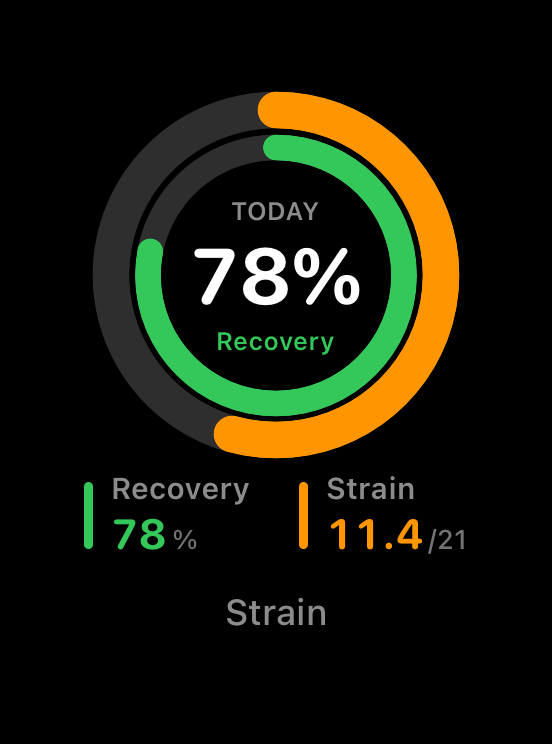
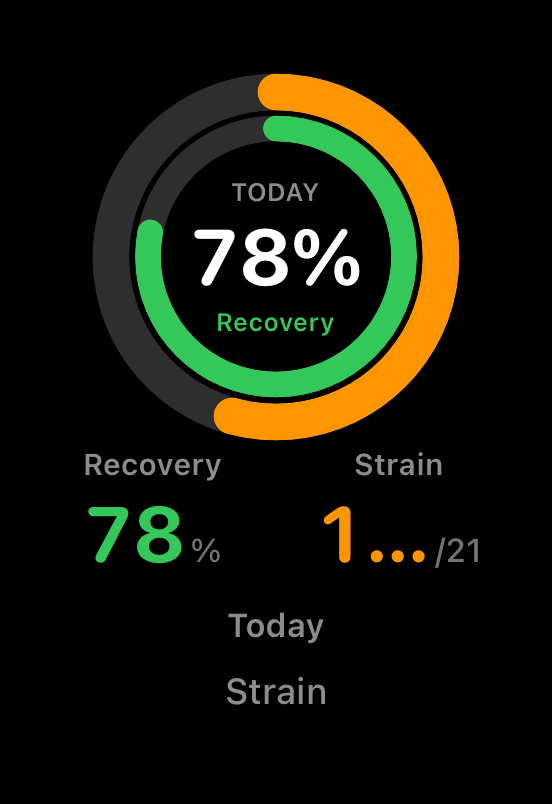
feat(watch): elevate Watch strain Recovery|Strain secondary (Honest #50) (#68)
Replace thin Recovery/Strain legend rows with Recovery % | Strain /21 dual
callout + day cue from WatchSnapshot under the WHOOP dual arcs; refresh
verify-watch-strain.png chrome.

Changed region(s): [[0.154, 0.0927, 0.8623, 0.7419], [0.154, 0.6183, 0.462, 0.7419], [0.4004, 0.7419, 0.5851, 0.8965]]

diff --git a/ReadinessTrackerWatch Watch App/WatchStrainView.swift b/ReadinessTrackerWatch Watch App/WatchStrainView.swift
@@ -1,6 +1,6 @@
 import SwiftUI
 
-/// Page 2: WHOOP dual-arc Recovery (inner) / Strain (outer) plus activity summary.
+/// Page 2: WHOOP dual-arc Recovery (inner) / Strain (outer) plus elevated Recovery|Strain callout.
 struct WatchStrainView: View {
     @EnvironmentObject private var session: WatchSessionManager
 
@@ -12,7 +12,7 @@ struct WatchStrainView: View {
                         strainScore: snapshot.strain,
                         recoveryScore: Double(snapshot.recovery),
                         size: 110,
-                        day: "TODAY",
+                        day: dayCue(for: snapshot.date),
                         minimumOuterWidth: 8,
                         minimumInnerWidth: 6,
                         trackColor: Color.white.opacity(0.18),
@@ -21,20 +21,26 @@ struct WatchStrainView: View {
                     )
                     .padding(.top, 4)
 
-                    HStack(spacing: 14) {
-                        watchLegend(
-                            color: WatchTheme.lightGreen,
-                            title: "Recovery",
+                    // Elevated secondary glance: Recovery % | Strain /21 from WatchSnapshot only.
+                    HStack(spacing: 12) {
+                        dualCallout(
+                            label: "Recovery",
                             value: "\(snapshot.recovery)",
-                            unit: "%"
+                            unit: "%",
+                            color: WatchTheme.lightGreen
                         )
-                        watchLegend(
-                            color: WatchTheme.orange,
-                            title: "Strain",
+                        dualCallout(
+                            label: "Strain",
                             value: String(format: "%.1f", snapshot.strain),
-                            unit: "/21"
+                            unit: "/21",
+                            color: WatchTheme.orange
                         )
                     }
+
+                    // Day cue from snapshot.date (existing field only).
+                    Text(dayLabel(for: snapshot.date))
+                        .font(.caption2.weight(.semibold))
+                        .foregroundStyle(.secondary)
 
                     Text("Strain")
                         .font(.caption)
@@ -71,26 +77,42 @@ struct WatchStrainView: View {
         }
     }
 
-    private func watchLegend(color: Color, title: String, value: String, unit: String) -> some View {
-        HStack(spacing: 6) {
-            Capsule()
-                .fill(color)
-                .frame(width: 3, height: 22)
-            VStack(alignment: .leading, spacing: 1) {
-                Text(title)
-                    .font(.caption2.weight(.semibold))
-                    .foregroundStyle(.secondary)
-                HStack(alignment: .firstTextBaseline, spacing: 1) {
-                    Text(value)
-                        .font(.caption.weight(.bold))
-                        .foregroundStyle(color)
-                        .monospacedDigit()
-                    Text(unit)
-                        .font(.system(size: 9, weight: .medium))
-                        .foregroundStyle(.tertiary)
-                }
+    private func dualCallout(label: String, value: String, unit: String, color: Color) -> some View {
+        VStack(spacing: 2) {
+            Text(label)
+                .font(.caption2.weight(.semibold))
+                .foregroundStyle(.secondary)
+            HStack(alignment: .firstTextBaseline, spacing: 1) {
+                Text(value)
+                    .font(.system(size: 26, weight: .bold, design: .rounded))
+                    .foregroundStyle(color)
+                    .monospacedDigit()
+                Text(unit)
+                    .font(.caption.weight(.medium))
+                    .foregroundStyle(.tertiary)
             }
         }
+        .frame(maxWidth: .infinity)
+    }
+
+    private func dayCue(for date: Date) -> String {
+        if Calendar.current.isDateInToday(date) {
+            return "TODAY"
+        }
+        let f = DateFormatter()
+        f.locale = Locale(identifier: "en_US_POSIX")
+        f.dateFormat = "EEE"
+        return f.string(from: date).uppercased()
+    }
+
+    private func dayLabel(for date: Date) -> String {
+        if Calendar.current.isDateInToday(date) {
+            return "Today"
+        }
+        let f = DateFormatter()
+        f.locale = Locale(identifier: "en_US_POSIX")
+        f.dateFormat = "EEEE"
+        return f.string(from: date)
     }
 }
 

diff --git a/ReadinessTracker/Design/CompactStrainRecoveryWheel.swift b/ReadinessTracker/Design/CompactStrainRecoveryWheel.swift
@@ -91,17 +91,18 @@ struct CompactStrainRecoveryWheel: View {
 struct WatchStrainChrome: View {
     let strainScore: Double
     let recoveryScore: Double
+    var dayCue: String = "TODAY"
 
     private let recoveryColor = Color(red: 52/255, green: 199/255, blue: 89/255)
     private let strainColor = Color(red: 255/255, green: 149/255, blue: 0/255)
 
     var body: some View {
-        VStack(spacing: 10) {
+        VStack(spacing: 8) {
             CompactStrainRecoveryWheel(
                 strainScore: strainScore,
                 recoveryScore: recoveryScore,
                 size: 110,
-                day: "TODAY",
+                day: dayCue,
                 minimumOuterWidth: 8,
                 minimumInnerWidth: 6,
                 trackColor: Color.white.opacity(0.18),
@@ -109,40 +110,51 @@ struct WatchStrainChrome: View {
                 captionColor: Color.white.opacity(0.55)
             )
 
-            HStack(spacing: 16) {
-                chromeMetric(color: recoveryColor, title: "Recovery", value: "\(Int(recoveryScore.rounded()))", unit: "%")
-                chromeMetric(color: strainColor, title: "Strain", value: String(format: "%.1f", strainScore), unit: "/21")
+            // Elevated Recovery % | Strain /21 dual callout (parity with WatchStrainView).
+            HStack(spacing: 12) {
+                dualCallout(
+                    label: "Recovery",
+                    value: "\(Int(recoveryScore.rounded()))",
+                    unit: "%",
+                    color: recoveryColor
+                )
+                dualCallout(
+                    label: "Strain",
+                    value: String(format: "%.1f", strainScore),
+                    unit: "/21",
+                    color: strainColor
+                )
             }
+
+            Text(dayCue == "TODAY" ? "Today" : dayCue.capitalized)
+                .font(.system(size: 11, weight: .semibold))
+                .foregroundStyle(Color.white.opacity(0.55))
 
             Text("Strain")
                 .font(.system(size: 12, weight: .medium))
                 .foregroundStyle(Color.white.opacity(0.55))
         }
         .padding(16)
-        .frame(width: 184, height: 248)
+        .frame(width: 184, height: 268)
         .background(Color.black)
     }
 
-    private func chromeMetric(color: Color, title: String, value: String, unit: String) -> some View {
-        HStack(spacing: 6) {
-            Capsule()
-                .fill(color)
-                .frame(width: 3, height: 22)
-            VStack(alignment: .leading, spacing: 1) {
-                Text(title)
-                    .font(.system(size: 10, weight: .semibold))
-                    .foregroundStyle(Color.white.opacity(0.55))
-                HStack(alignment: .firstTextBaseline, spacing: 1) {
-                    Text(value)
-                        .font(.system(size: 14, weight: .bold, design: .rounded))
-                        .foregroundStyle(color)
-                        .monospacedDigit()
-                    Text(unit)
-                        .font(.system(size: 9, weight: .medium))
-                        .foregroundStyle(Color.white.opacity(0.45))
-                }
+    private func dualCallout(label: String, value: String, unit: String, color: Color) -> some View {
+        VStack(spacing: 2) {
+            Text(label)
+                .font(.system(size: 10, weight: .semibold))
+                .foregroundStyle(Color.white.opacity(0.55))
+            HStack(alignment: .firstTextBaseline, spacing: 1) {
+                Text(value)
+                    .font(.system(size: 26, weight: .bold, design: .rounded))
+                    .foregroundStyle(color)
+                    .monospacedDigit()
+                Text(unit)
+                    .font(.system(size: 11, weight: .medium))
+                    .foregroundStyle(Color.white.opacity(0.45))
             }
         }
+        .frame(maxWidth: .infinity)
     }
 }
 #endif

diff --git a/README.md b/README.md
@@ -2,7 +2,7 @@
 
 iOS readiness app. Bright Apple Health UI. Local HealthKit plus optional Fitbit. WHOOP product surfaces via Apple Health. No unofficial WHOOP OAuth.
 
-**main:** Gym / Work / Sleep rings use Apple Activity packing with a center READY score in a Fitness-scale hole; legend opens Fitness-style ring detail. Today Strain/Recovery Balance shows Recovery | Strain with deltas and a 7-day recovery spark. Watch strain page mirrors WHOOP dual Recovery|Strain arcs. Sleep Performance shows Need | Got dual metrics. Recommendations use WHOOP-style actionable cards. Today scroll keeps Morning and Evening above the tab bar. Body sits above the WHOOP stack with Fitness-style progress tiles and tap-through detail. History Browse Trends opens Health-style trend detail with summary stats and scrub. Day Detail / Sleep Analysis show WHOOP night-detail chrome (stage % chips, hypnogram, cycles summary).
+**main:** Gym / Work / Sleep rings use Apple Activity packing with a center READY score in a Fitness-scale hole; legend opens Fitness-style ring detail. Today Strain/Recovery Balance shows Recovery | Strain with deltas and a 7-day recovery spark. Watch strain page mirrors WHOOP dual Recovery|Strain arcs with Recovery %|Strain /21 callout. Sleep Performance shows Need | Got dual metrics. Recommendations use WHOOP-style actionable cards. Today scroll keeps Morning and Evening above the tab bar. Body sits above the WHOOP stack with Fitness-style progress tiles and tap-through detail. History Browse Trends opens Health-style trend detail with summary stats and scrub. Day Detail / Sleep Analysis show WHOOP night-detail chrome (stage % chips, hypnogram, cycles summary).
 
 Screenshots are Simulator captures from `./scripts/capture-surfaces.sh` (XCUITest swipe plus `-ui-fixture`, not VoiceOver).
 
@@ -39,7 +39,7 @@ Screenshots are Simulator captures from `./scripts/capture-surfaces.sh` (XCUITes
 | Classic `MetricDetailView` primary Trend scrub | Shipped. Today → Metrics cards open classic detail; `ChartScrubSelection` drag scrub + RuleMark/`ChartTooltip` on primary Trend chart (parity with Advanced) | [verify-metric-detail-classic-scrub.png](.audit/verify-metric-detail-classic-scrub.png) |
 | Home Screen widget (Gym / Work / Sleep) | Shipped. Small + medium + **large** + **extra large** use Fitness-style `CompactTripleRingsView`; large adds Gym/Work/Sleep rows + HRV/RHR/Sleep hours; extra large (iPad / StandBy) extends large with readiness cue + G/W/S metric tiles; medium/large/extra-large show interactive **Check-in** / **Evening** / **Trends** (`Link` → `readinesstracker://checkin/{morning|evening}` + `readinesstracker://trends`) and Fitness-style live **Updated …** (`Text(..., style: .relative)`) from App Group `lastUpdate` (getSnapshot shares App Group load with timeline) | [verify-home-widget.png](.audit/verify-home-widget.png) · [verify-home-widget-large.png](.audit/verify-home-widget-large.png) · [verify-home-widget-extra-large.png](.audit/verify-home-widget-extra-large.png) · [verify-home-widget-updated.png](.audit/verify-home-widget-updated.png) · [verify-home-widget-live-updated.png](.audit/verify-home-widget-live-updated.png) · [verify-home-widget-checkin.png](.audit/verify-home-widget-checkin.png) · [verify-home-widget-deeplinks.png](.audit/verify-home-widget-deeplinks.png) |
 | Watch dashboard hero (Gym / Work / Sleep + HRV\|RHR) | Shipped. Concentric Activity rings + elevated HRV\|RHR dual callout and Ready/Recovery cue on Watch glance; `WatchSnapshot` carries gym/work/sleep + vitals from WatchConnectivity | [verify-watch-dashboard.png](.audit/verify-watch-dashboard.png) |
-| Watch strain page (Recovery | Strain dual arcs) | Shipped. WHOOP dual concentric arcs (Recovery inner / Strain outer) on Watch strain page via shared `StrainRecoveryDualArcGeometry` + `CompactStrainRecoveryWheel`; uses recovery + strain from `WatchSnapshot` | [verify-watch-strain.png](.audit/verify-watch-strain.png) |
+| Watch strain page (Recovery | Strain dual arcs + callout) | Shipped. WHOOP dual concentric arcs (Recovery inner / Strain outer) plus elevated Recovery % \| Strain /21 dual callout and day cue from `WatchSnapshot` via shared `StrainRecoveryDualArcGeometry` + `CompactStrainRecoveryWheel` | [verify-watch-strain.png](.audit/verify-watch-strain.png) |
 | Watch complication (Gym / Work / Sleep rings) | Shipped. WidgetKit accessory circular + **rectangular** + **inline** + **corner** Fitness-style glances in `ReadinessTrackerWatchWidgets` embedded in Watch App; rectangular mirrors Lock Screen (#33) with compact rings + readiness + short G/W/S cues; **inline** elevates colored readiness + short G/W/S (R/G/W/S) text cues within `accessoryInline` width (Lock #34 / rect #44 parity); **corner** keeps compact rings (#44) and elevates `widgetLabel` to colored readiness + short G/W/S cues (inline #45 / `WatchAccessoryCue` parity); timeline from App Group `lastWatchSnapshot` written by iOS `WatchConnectivityManager` / `WidgetDataExporter` + Watch `WatchSessionManager` mirror; iOS prefers WC `transferCurrentComplicationUserInfo` when budget remains **and** glance fields changed (else context/message; App Group always); Watch persist soft-fail reloads `ReadinessWatchComplication` timelines (**portal App Group enable remains manual** in `DEVICE_SETUP.md`) | [verify-watch-complication.png](.audit/verify-watch-complication.png) · [verify-watch-complication-rectangular.png](.audit/verify-watch-complication-rectangular.png) · [verify-watch-complication-inline.png](.audit/verify-watch-complication-inline.png) · [verify-watch-complication-corner.png](.audit/verify-watch-complication-corner.png) |
 | Watch Check-in (Morning / Evening) | Shipped. Wrist sheet elevates to Morning|Evening picker + feel stars + habit toggles; `WatchSessionManager.sendCheckIn` sends correct `timeOfDay` (Evening can include Workout); parity intent with iPhone Check-in tab | [verify-watch-checkin.png](.audit/verify-watch-checkin.png) |
 | Watch sleep page (Hours | Efficiency + stage legend) | Shipped. Wrist sleep glance elevates Hours|Eff dual callout (snapshot `sleepHours` + `sleepEfficiency`; no invented Need) + clearer Deep/REM/Light stage legend; optional Sleep score when present | [verify-watch-sleep.png](.audit/verify-watch-sleep.png) |
@@ -61,7 +61,7 @@ Four tabs stay Today, History, Check-in, and Settings.
 
 **Settings.** Apple Health Connect / Reconnect. Fitbit Connect / Refresh / Disconnect. Cycle tracking off by default. CSV export. Coaching and notification screens.
 
-**Elsewhere.** History with weekly report. Home screen widgets (small / medium / large) with Fitness-style Check-in / Evening / Trends deep links on medium/large, Lock Screen circular + rectangular (Fitness-style Gym/Work/Sleep triple rings), Watch dashboard (Fitness-style Gym/Work/Sleep triple rings), and Watch strain (WHOOP Recovery|Strain dual arcs), Watch Check-in (Morning|Evening picker + stars/habits via WatchConnectivity), plus Watch complications (Fitness-style Gym/Work/Sleep circular + rectangular rings via Watch Widgets extension).
+**Elsewhere.** History with weekly report. Home screen widgets (small / medium / large) with Fitness-style Check-in / Evening / Trends deep links on medium/large, Lock Screen circular + rectangular (Fitness-style Gym/Work/Sleep triple rings), Watch dashboard (Fitness-style Gym/Work/Sleep triple rings), and Watch strain (WHOOP Recovery|Strain dual arcs + Recovery %|Strain /21 callout), Watch Check-in (Morning|Evening picker + stars/habits via WatchConnectivity), plus Watch complications (Fitness-style Gym/Work/Sleep circular + rectangular rings via Watch Widgets extension).
 
 **Not in this app.** Unofficial WHOOP login. Google Fit REST. Heart Points.
 
@@ -234,7 +234,7 @@ Fitness-style Gym / Work / Sleep concentric rings on the Watch glance hero (pari
 
 ### Watch strain
 
-WHOOP dual concentric arcs on the Watch strain page (Recovery inner / Strain outer), matching Today `StrainRecoveryWheel` colors and labels. Shared `StrainRecoveryDualArcGeometry` + `CompactStrainRecoveryWheel` (Watch App target membership); recovery % and strain 0–21 come from `WatchSnapshot`.
+WHOOP dual concentric arcs on the Watch strain page (Recovery inner / Strain outer), matching Today `StrainRecoveryWheel` colors and labels, plus an elevated Recovery % | Strain /21 dual callout and day cue under the wheel (from existing `WatchSnapshot` fields only — no invented metrics). Shared `StrainRecoveryDualArcGeometry` + `CompactStrainRecoveryWheel` (Watch App target membership).
 
 ![Watch strain](.audit/verify-watch-strain.png)
 
@@ -386,3 +386,4 @@ Do not commit `build/`, `build-DD/`, `Readiness.app`, or `Secrets.xcconfig`. The
 47. ~~Watch `WatchCheckInView` was a thin morning-only stars+toggles sheet (no evening, no dedicated PNG, weaker than iPhone Check-in).~~ Closed — Morning|Evening picker (watchOS equivalent; no `.segmented`); keep feel stars + habit toggles (Evening adds Workout); `WatchSessionManager.sendCheckIn` sends correct `timeOfDay`; [verify-watch-checkin.png](.audit/verify-watch-checkin.png) from `Scripts/capture-watch-checkin.sh` (ImageRenderer of `WatchCheckInChrome`).
 48. ~~Watch `WatchSleepView` had hours + stage bar + metric rows but no dedicated Status/App-surfaces PNG (dashboard/strain/check-in do).~~ Closed — elevated Hours|Eff dual callout + clearer Deep/REM/Light stage legend from existing `WatchSnapshot` fields only (no invented Need); [verify-watch-sleep.png](.audit/verify-watch-sleep.png) from `Scripts/capture-watch-sleep.sh` (ImageRenderer of `WatchSleepChrome`).
 49. ~~Watch `WatchDashboardView` rings were elevated but vitals stayed plain HRV/RHR/Recovery metric rows (sleep page already uses Hours|Eff dual callout).~~ Closed — elevated HRV|RHR dual callout + Ready/Recovery cue from existing `WatchSnapshot` fields only; [verify-watch-dashboard.png](.audit/verify-watch-dashboard.png) refreshed via `Scripts/capture-watch-dashboard.sh` (ImageRenderer of `WatchDashboardChrome`).
+50. ~~Watch `WatchStrainView` already had WHOOP dual Recovery|Strain arcs (#30) but secondary rows stayed thin vs sleep/dashboard dual callouts.~~ Closed — elevated Recovery % | Strain /21 dual callout under the wheel + day cue from `WatchSnapshot.date` (no invented metrics; dual arcs kept); [verify-watch-strain.png](.audit/verify-watch-strain.png) refreshed via `Scripts/capture-watch-strain.sh` (ImageRenderer of elevated `WatchStrainChrome`).

diff --git a/progress.md b/progress.md
@@ -1,3 +1,12 @@
+## 2026-09-16 — Poteto: Honest #50 Watch strain Recovery|Strain secondary
+
+- Elevated Watch `WatchStrainView` secondary glance from thin Recovery/Strain legend rows to Recovery % | Strain /21 dual callout + day cue (`WatchSnapshot.recovery` / `strain` / `date`); dual arcs (#30) unchanged. No invented metrics.
+- PNG: `.audit/verify-watch-strain.png` refreshed via `Scripts/capture-watch-strain.sh` (`WatchStrainCaptureTests` + `ImageRenderer` of elevated `WatchStrainChrome`).
+- README Status + App surfaces + Honest gap #50; tree-guard / capture-surfaces already list the PNG.
+- Branch: `feature/poteto-watch-strain-secondary`.
+
+
+
 ## 2026-09-16 — Poteto: Honest #49 Watch dashboard HRV|RHR vitals
 
 - Elevated Watch `WatchDashboardView` vitals from plain HRV/RHR/Recovery metric rows to HRV|RHR dual callout + Ready/Recovery cue (`hrv` + `restingHeartRate` + `readiness`/`recovery`); no invented metrics. Rings unchanged.
